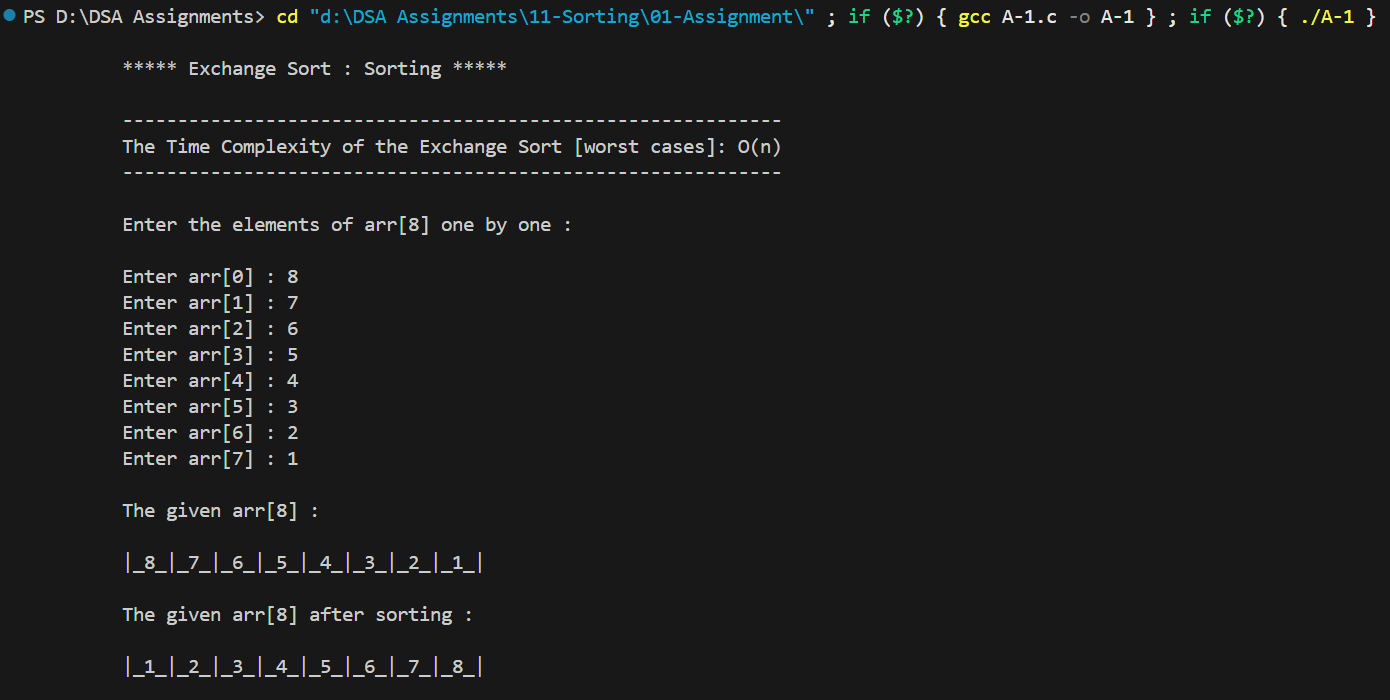
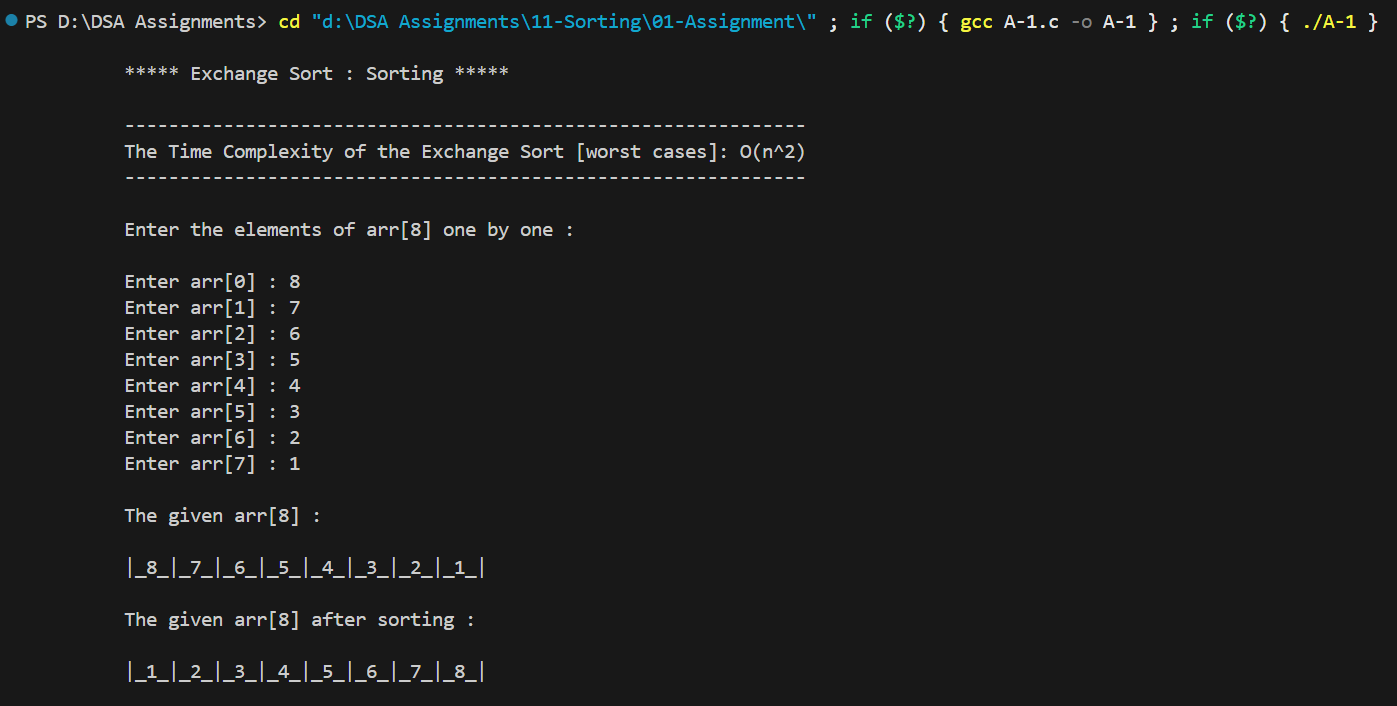
Sorting Assignment No. 1

diff --git a/11-Sorting/01-Assignment/A-1.c b/11-Sorting/01-Assignment/A-1.c
@@ -12,7 +12,7 @@ int main() {
 
     printf("\n\t -------------------------------------------------------------- ");
     printf("\n\t The Time Complexity of the Exchange Sort [worst cases]: O(n^2) \n");
-    printf("\t -------------------------------------------------------------- \n");
+    printf("\t  \n");
 
     int *arr = NULL;
     arr = (int*)malloc(SIZE*sizeof(int));    
